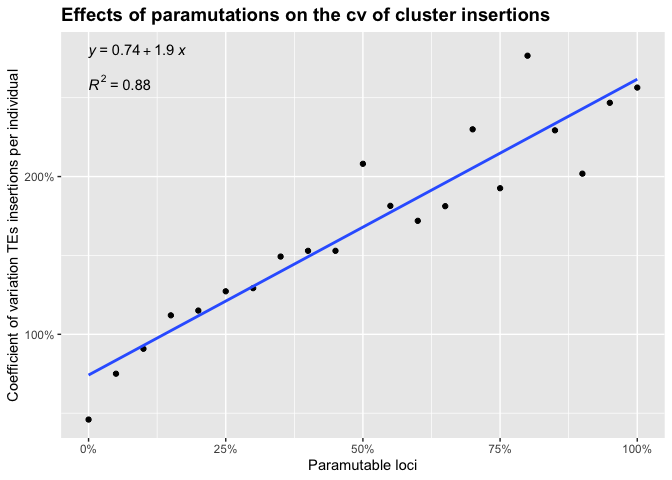
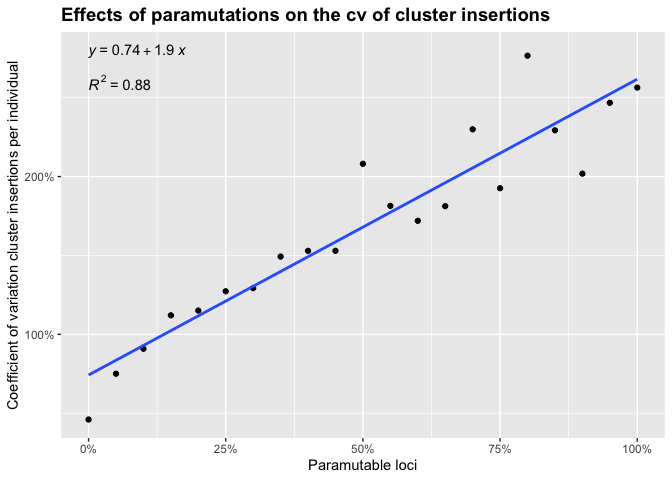
Label fix

Changed region(s): [[0.0, 0.125, 0.0312, 0.8438]]

diff --git a/Simulation/2022_08_09_Simulation_1_Paramutations.md b/Simulation/2022_08_09_Simulation_1_Paramutations.md
@@ -185,7 +185,7 @@ g_3_3 <- ggplot(df3_2, aes(x=sampleid/100, y=cv_cli_percent))+
   stat_regline_equation(label.y = 2.8, aes(label = ..eq.label..))+
   stat_regline_equation(label.y = 2.6, aes(label = ..rr.label..))+
   xlab("Paramutable loci")+
-  ylab("Coefficient of variation TEs insertions per individual")+
+  ylab("Coefficient of variation cluster insertions per individual")+
   scale_x_continuous(labels = scales::percent)+
   scale_y_continuous(labels = scales::percent)+
   ggtitle("Effects of paramutations on the cv of cluster insertions")+
